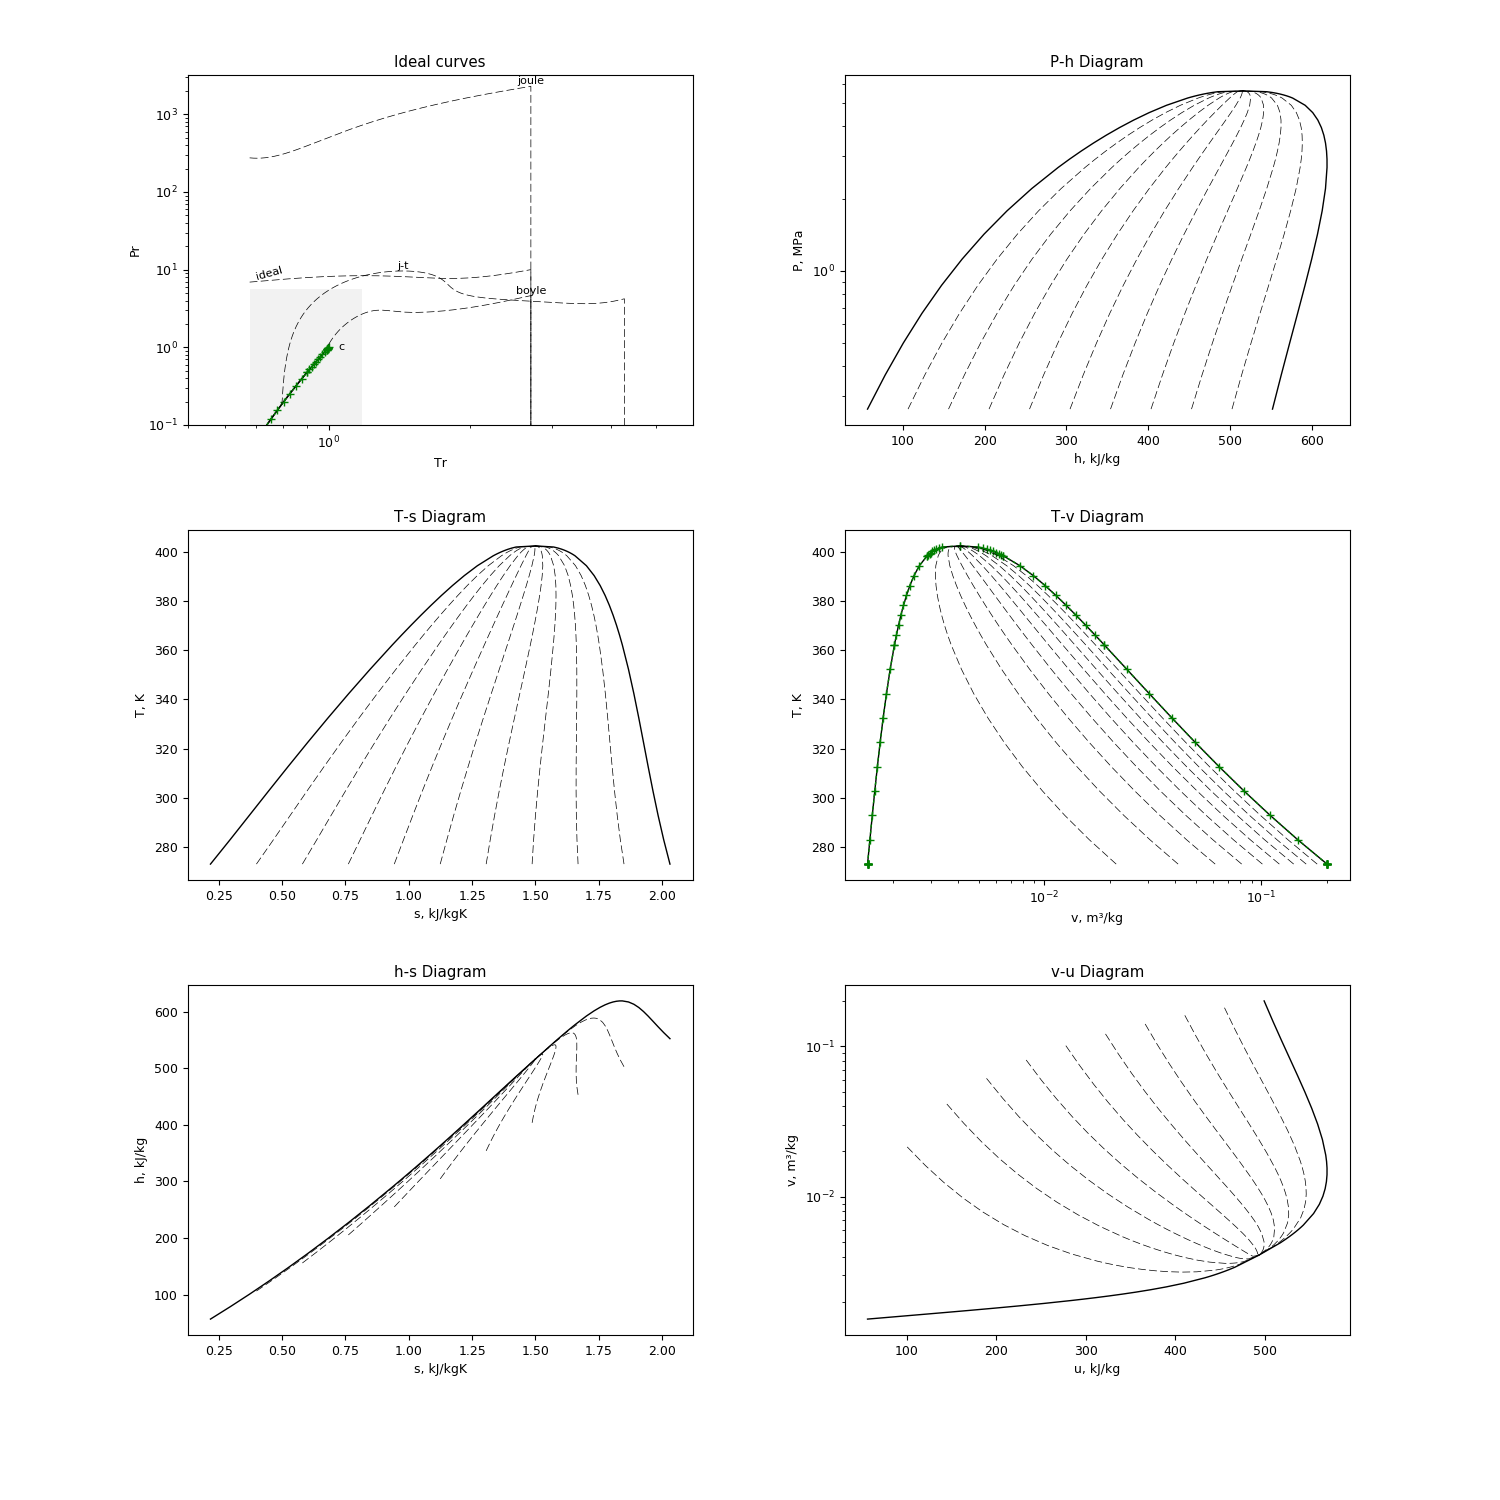
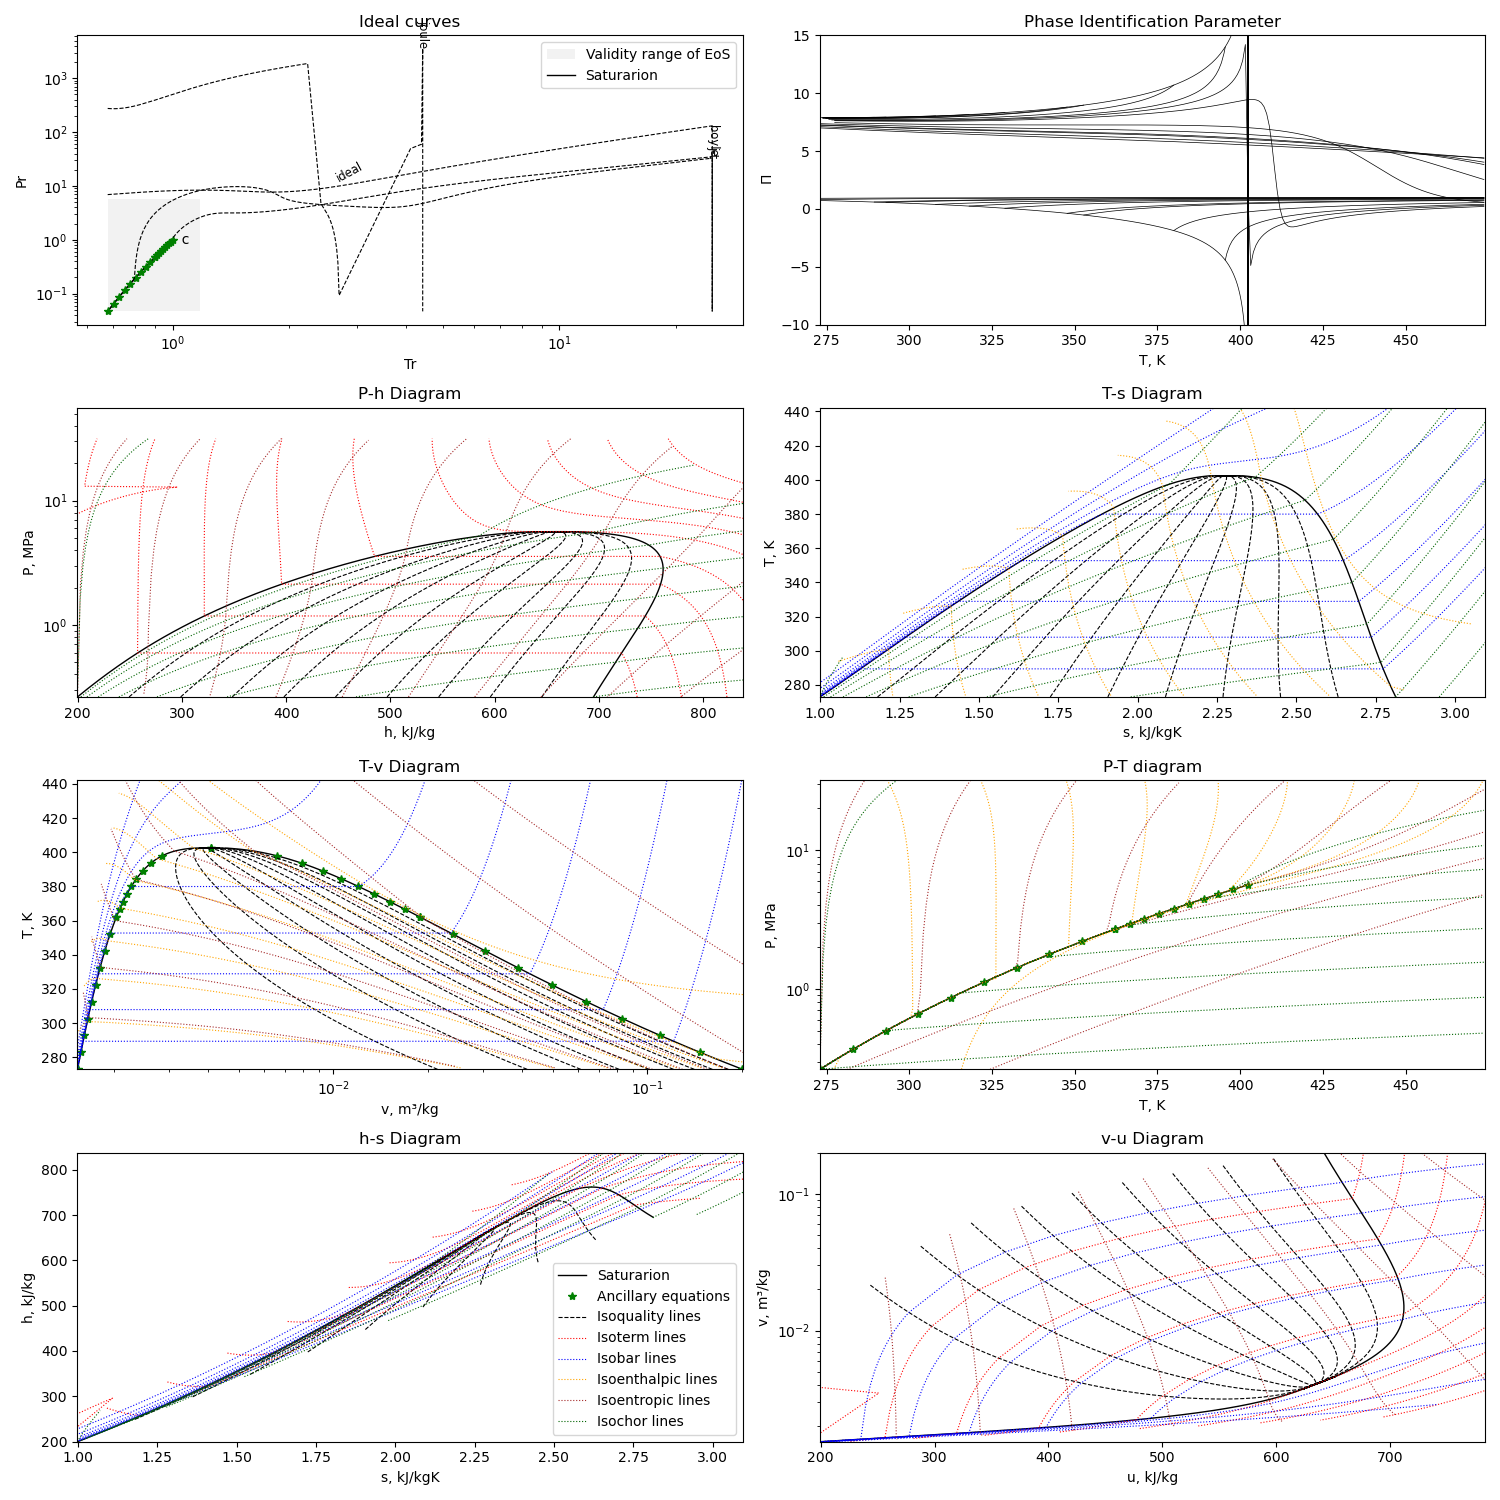
Update alkenes images for mEoS documentation including PIP plot

diff --git a/.script/plotMEoS.py b/.script/plotMEoS.py
@@ -272,19 +272,19 @@ print("Calculating saturation lines...")
 liq = [fluid(T=t, x=0) for t in Ts]
 vap = [fluid(T=t, x=1) for t in Ts]
 
-xliq = [line.T / Tc for line in liq]
-yliq = [line.P / fluid.Pc for line in liq]
+xliq = [line.T / Tc if line.status == 1 else None for line in liq]
+yliq = [line.P / fluid.Pc if line.status == 1 else None for line in liq]
 ax_Ideal.plot(xliq, yliq, **isosat_kw)
 xvap = [v.T / Tc for v in vap]
 yvap = [v.P / fluid.Pc for v in vap]
 ax_Ideal.plot(xvap, yvap, **isosat_kw)
 
-PIPliq = [line.PIP for line in liq]
-hliq = [line.h.kJkg for line in liq]
-Pliq = [line.P.MPa for line in liq]
-sliq = [line.s.kJkgK for line in liq]
-vliq = [line.v for line in liq]
-uliq = [line.u.kJkg for line in liq]
+PIPliq = [line.PIP if line.status == 1 else None for line in liq]
+hliq = [line.h.kJkg if line.status == 1 else None for line in liq]
+Pliq = [line.P.MPa if line.status == 1 else None for line in liq]
+sliq = [line.s.kJkgK if line.status == 1 else None for line in liq]
+vliq = [line.v if line.status == 1 else None for line in liq]
+uliq = [line.u.kJkg if line.status == 1 else None for line in liq]
 ax_PIP.plot(Ts, PIPliq, label="Saturated Liquid", **PIP_kw)
 ax_Ph.plot(hliq, Pliq, label="Saturated Liquid", **isosat_kw)
 ax_Ts.plot(sliq, Ts, label="Saturated Liquid", **isosat_kw)
@@ -531,7 +531,13 @@ for h in isoh:
             T0 = None
             rho0 = None
 
-        point = fluid(P=p, h=h*1000)
+        if pts:
+            rho0 = pts[-1].rho
+            T0 = pts[-1].T
+        else:
+            T0 = fluid()._constants["Tmin"]
+            rho0 = fluid()._Liquid_Density(T0)
+        point = fluid(P=p, h=h*1000, T0=T0, rho0=rho0)
 
         if point.status == 1:
 

diff --git a/lib/mEoS/C1Palmitate.py b/lib/mEoS/C1Palmitate.py
@@ -63,7 +63,7 @@ class C1Palmitate(MEoS):
         "cp": CP1,
         "ref": "NBP",
 
-        "Tmin": 302.71, "Tmax": 1000.0, "Pmax": 50000.0, "rhomax": 3.36,
+        "Tmin": Tt, "Tmax": 1000.0, "Pmax": 50000.0, "rhomax": 3.36,
 
         "nr1": [0.4282821e-1, 2.443162, -3.75754, -0.1588526, 0.4055990e-1],
         "d1": [4, 1, 1, 2, 3],
